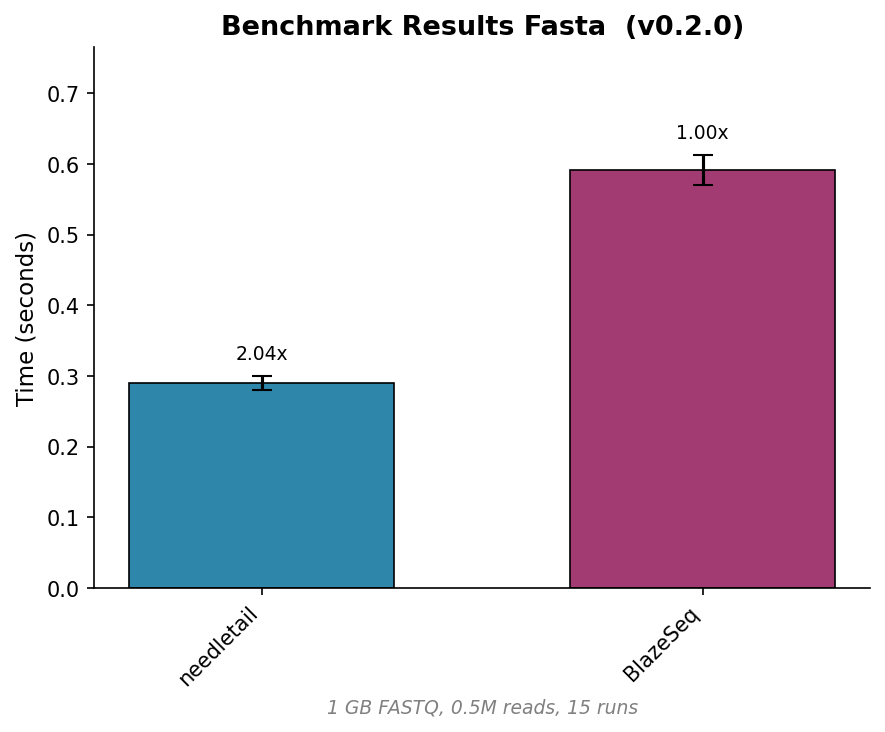
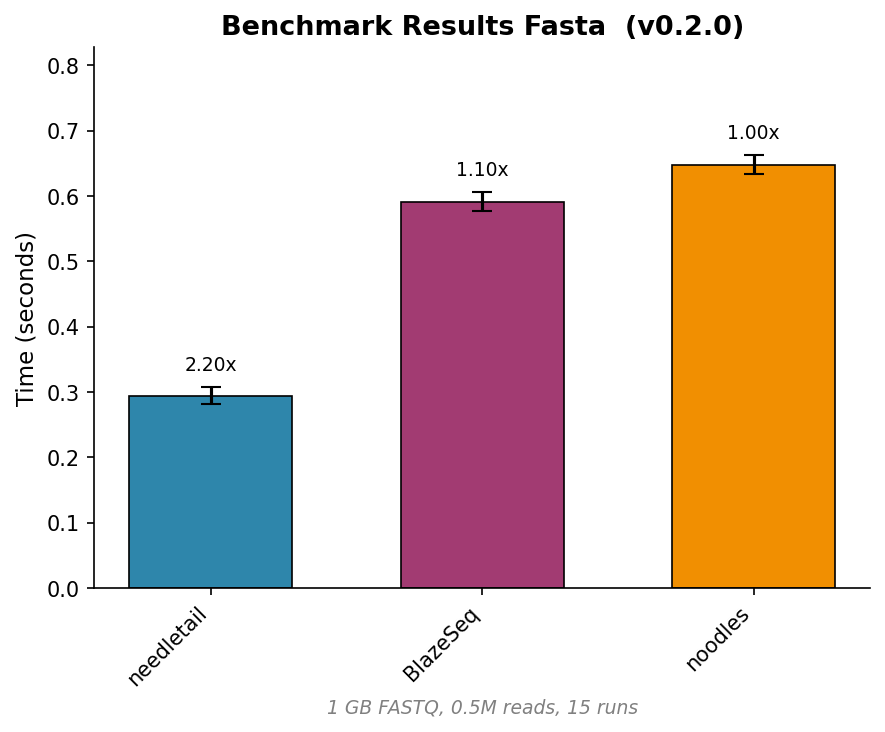
added noodles to benchmarks & enhanced rust build

diff --git a/benchmark/fasta-parser/noodles_runner/src/main.rs b/benchmark/fasta-parser/noodles_runner/src/main.rs
@@ -1,0 +1,44 @@
+//! FASTA parser benchmark runner using noodles.
+//! Reads path from argv[1], counts records and base pairs, prints "records base_pairs".
+
+use noodles::fasta;
+use std::env;
+use std::fs::File;
+use std::io::BufReader;
+use std::process;
+
+fn main() {
+    let args: Vec<String> = env::args().collect();
+    if args.len() < 2 {
+        eprintln!("Usage: noodles_fasta_runner <path.fasta>");
+        process::exit(1);
+    }
+    let path = &args[1];
+
+    let file = match File::open(path) {
+        Ok(f) => f,
+        Err(e) => {
+            eprintln!("noodles_fasta_runner: failed to open {}: {}", path, e);
+            process::exit(1);
+        }
+    };
+
+    let mut reader = fasta::io::Reader::new(BufReader::new(file));
+
+    let mut total_reads: u64 = 0;
+    let mut total_base_pairs: u64 = 0;
+
+    for result in reader.records() {
+        let record = match result {
+            Ok(r) => r,
+            Err(e) => {
+                eprintln!("noodles_fasta_runner: parse error: {}", e);
+                process::exit(1);
+            }
+        };
+        total_reads += 1;
+        total_base_pairs += record.sequence().len() as u64;
+    }
+
+    println!("{} {}", total_reads, total_base_pairs);
+}
